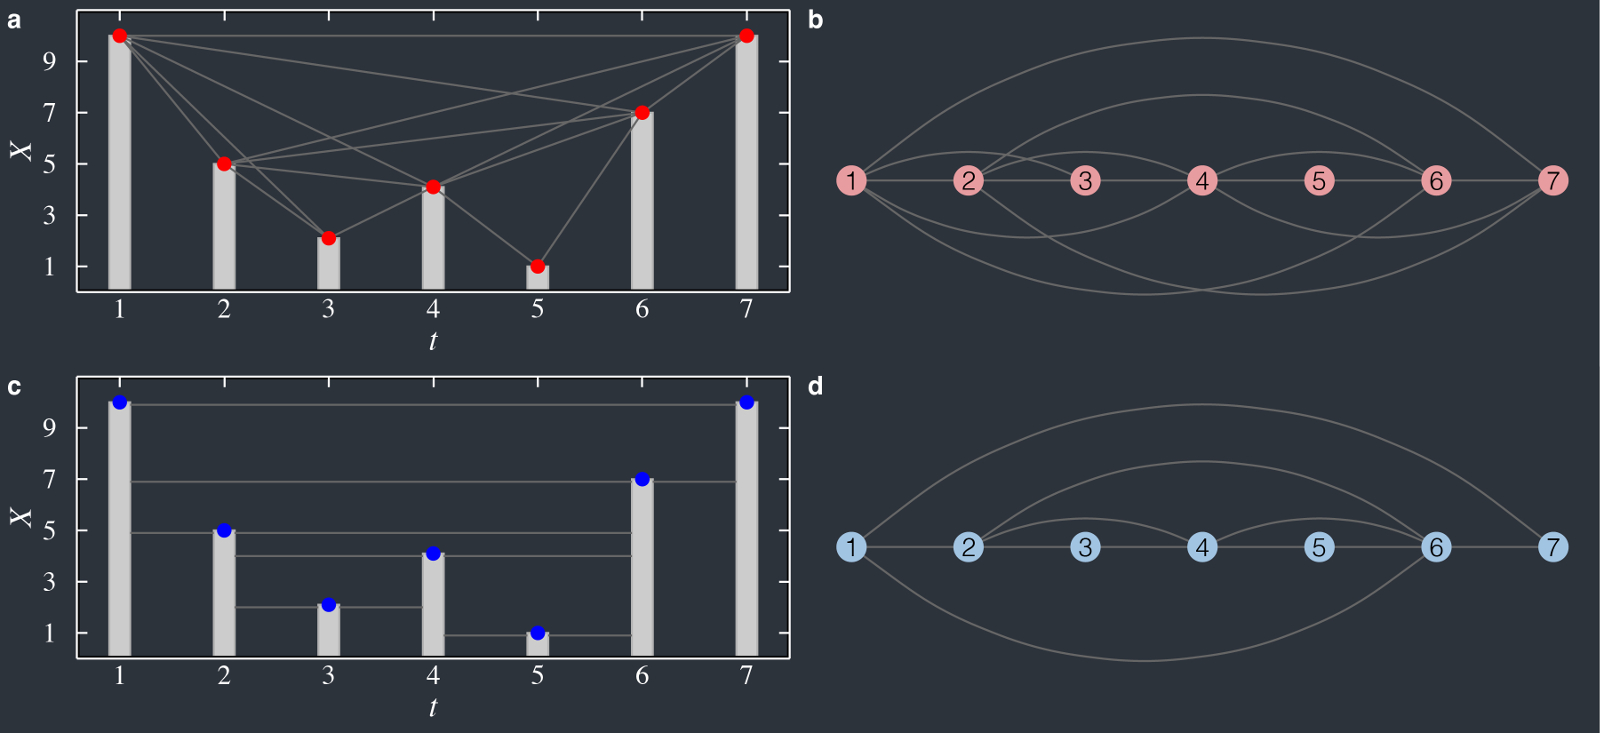
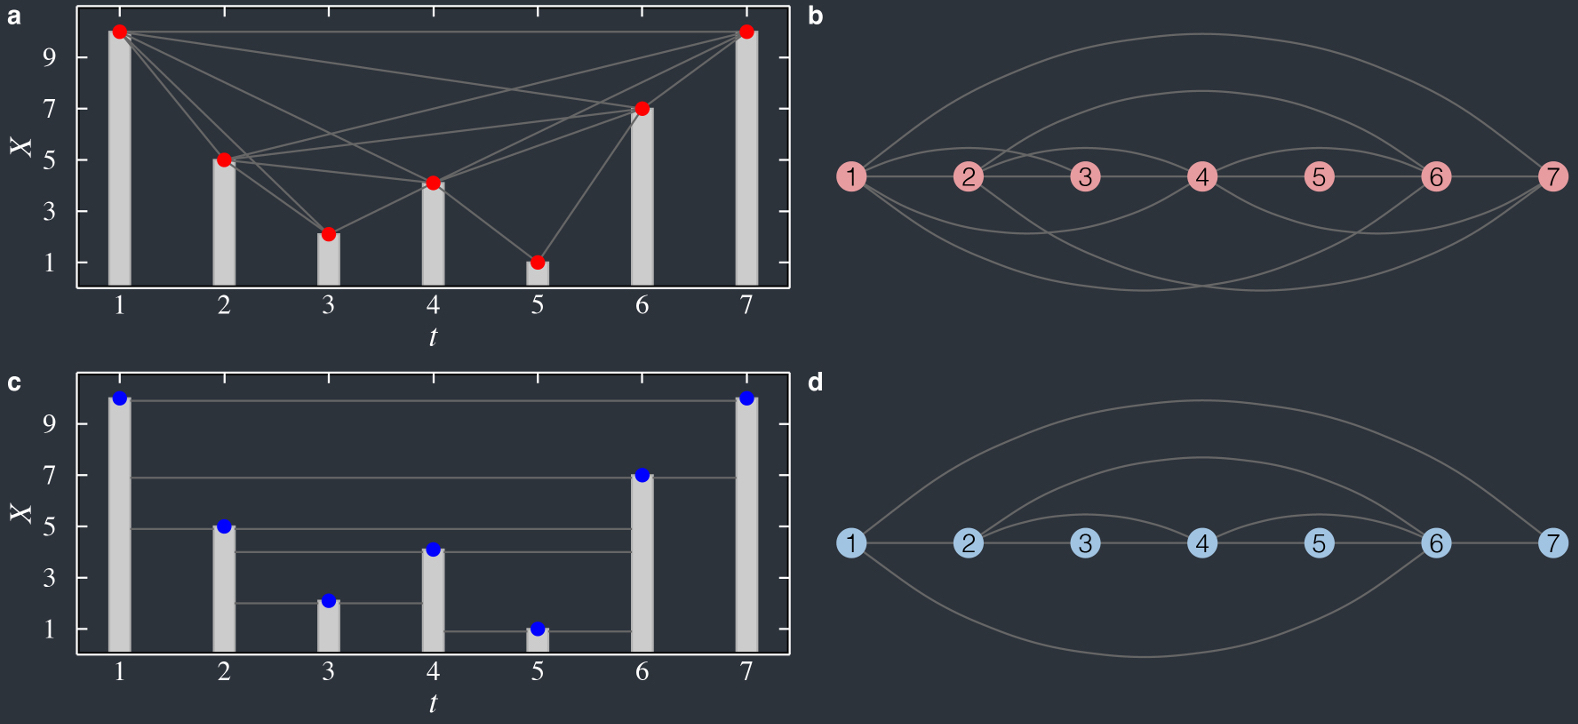
Testing black-mode figures in the readme

diff --git a/README.md b/README.md
@@ -40,7 +40,7 @@ knnet = net_knn(D, k = 2)
 wnet = net_weighted(D)
 ```
 
-![Fig1](inst/figs/fig01.jpg)
+![Time series to network](inst/figs/fig01_black.jpg#gh-dark-mode-only)![Time series to network](inst/figs/fig01.jpg#gh-light-mode-only)
 **Fig. 1:** Transforming a time series data set into a network. (a) A toy data set composed by 10 sine and 10 cosine time series. A small white noise was added to each series. (b) Positive correlation distance calculated for the sin-cos data set. (c) The &epsilon;-NN network using &epsilon; = 0.5. (d) The _k_-NN network using _k_ = 2. (e) The weighted network with edges thickness proportional to the weight. Node colors represent the two classes (sine and cosines).
 
 Functions to calculate the distance matrix:
@@ -77,12 +77,7 @@ X = c(10, 5, 2.1, 4.1, 1, 7, 10)
 net_vg = tsnet_vg(X)
 ```
 
-<picture>
-  <source media="(prefers-color-scheme: dark)" srcset="inst/figs/fig06_black.jpg">
-  <source media="(prefers-color-scheme: light)" srcset="inst/figs/fig06.jpg">
-  <img alt="Visibility graphs" src="inst/figs/fig06.jpg">
-</picture>
-
+![Visibility graphs](inst/figs/fig06_black.jpg#gh-dark-mode-only)![Visibility graphs](inst/figs/fig06.jpg#gh-light-mode-only)
 **Fig. 2:** Visibility graph construction. (a and c) The example time series _X_ with values represented by the bars and points. Gray lines connect ``visible'' values as defined in the (a) natural (red) and (c) horizontal (blue) visibility graphs. The resulting natural (b) and horizontal (d) visibility graphs.).
 
 One time series into a network:
